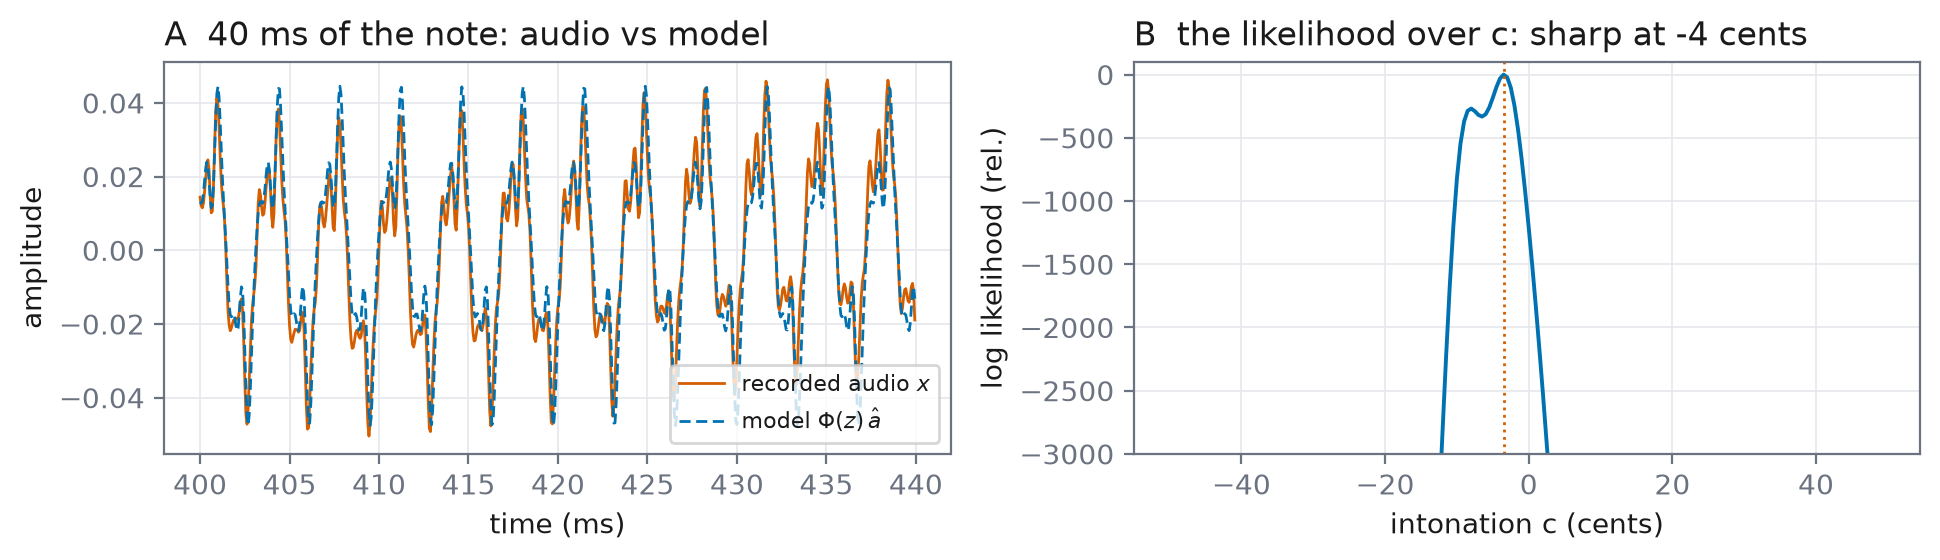
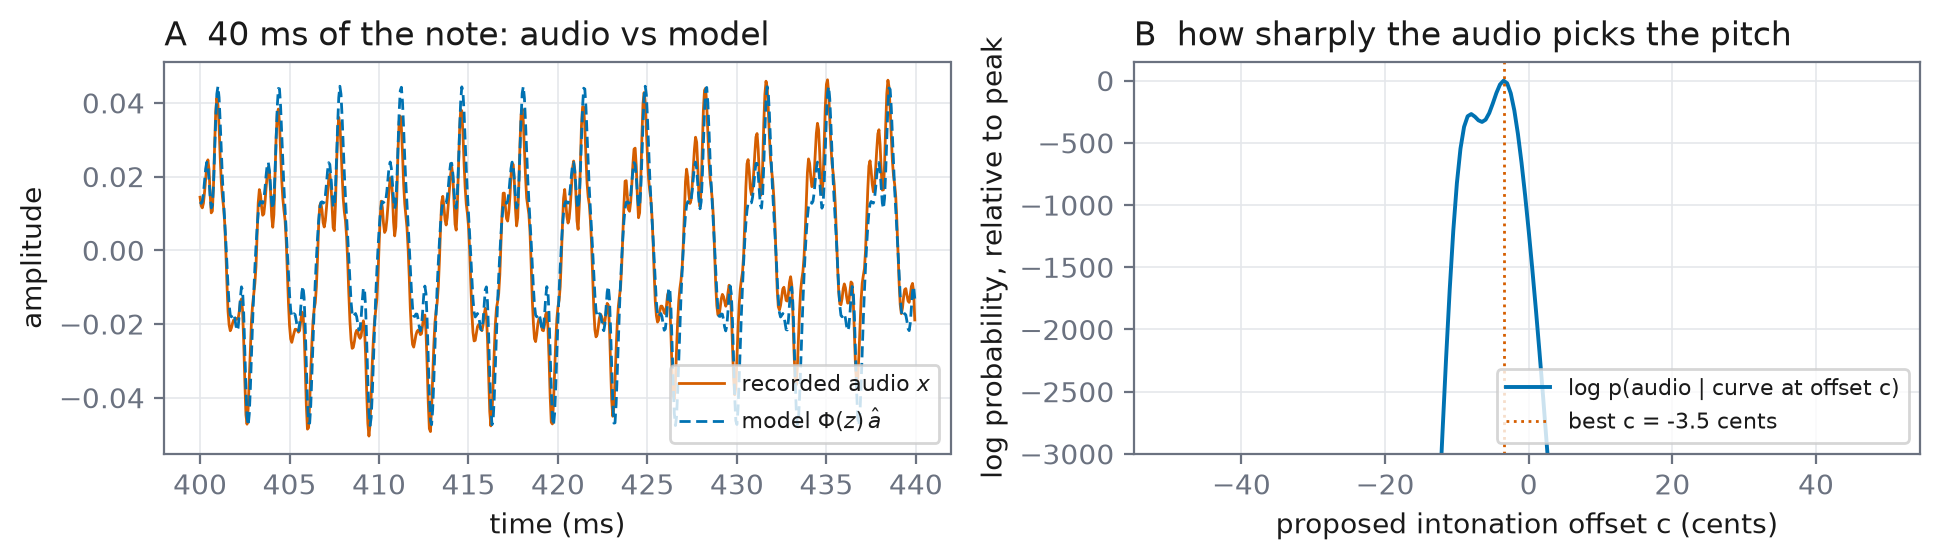
Panel B legended and the 'prior' named concretely
Slide 28 B now carries a legend (log p(audio | curve at offset c); best
c marked), plain-language axes, and the title 'how sharply the audio
picks the pitch'. Slide 27 replaces the floating word 'prior' with the
concrete object: a GP over the curve with the same two-component kernel
the audience met in the strings-and-winds chapter. 32 slides.

diff --git a/docs/slides/deck_week.tex b/docs/slides/deck_week.tex
@@ -548,9 +548,11 @@
     \item So a pitch curve is scored directly against every audio
           sample. No pitch tracker anywhere.
     \item Where the curve comes from: the \textbf{score} anchors the
-          pitch, the within-note \textbf{prior} proposes deviation
-          curves, the \textbf{audio} decides. The search starts at the
-          score-nominal pitch.
+          pitch, and a \textbf{GP over the curve} (the same
+          two-component kernel as before: a vibrato band plus drift)
+          says which deviation shapes are plausible; the \textbf{audio}
+          decides among them. The search starts at the score-nominal
+          pitch.
     \item Note boundaries still come from annotations: inferring them
           jointly is the open problem.
   \end{itemize}
@@ -562,8 +564,8 @@
   \vspace{-2mm}
   {\small\textcolor{muted}{A clarinet note. A: the harmonic model on
   40 ms of the recording, at the fitted intonation. B: the collapsed
-  log likelihood as $c$ varies: tens of thousands of samples make it
-  needle-sharp.}}
+  log probability of the recording as the proposed offset $c$ varies:
+  tens of thousands of samples make it needle-sharp.}}
 \end{frame}
 
 % ---------------------------------------------------------------------

diff --git a/scripts/make_waveform_viz.py b/scripts/make_waveform_viz.py
@@ -47,13 +47,15 @@ A.plot(t[w] * 1000, recon[w], color=BLUE, lw=1.0, ls=(0, (4, 2)),
 A.set_xlabel("time (ms)"); A.set_ylabel("amplitude")
 A.set_title("A  40 ms of the note: audio vs model", loc="left")
 A.legend(fontsize=8)
-B.plot(grid, lls - lls.max(), color=BLUE, lw=1.4)
-B.axvline(c_hat, color=VERM, lw=1.0, ls=":")
-B.set_xlabel("intonation c (cents)")
-B.set_ylabel("log likelihood (rel.)")
-B.set_ylim(-3000, 100)
-B.set_title(f"B  the likelihood over c: sharp at {c_hat:+.0f} cents",
-            loc="left")
+B.plot(grid, lls - lls.max(), color=BLUE, lw=1.4,
+       label="log p(audio | curve at offset c)")
+B.axvline(c_hat, color=VERM, lw=1.0, ls=":",
+          label=f"best c = {c_hat:+.1f} cents")
+B.set_xlabel("proposed intonation offset c (cents)")
+B.set_ylabel("log probability, relative to peak")
+B.set_ylim(-3000, 150)
+B.legend(fontsize=8, loc="lower right")
+B.set_title("B  how sharply the audio picks the pitch", loc="left")
 fig.tight_layout()
 fig.savefig("docs/thesis/figures/waveform_viz.png", bbox_inches="tight")
 print("wrote waveform_viz.png, c_hat", c_hat)
